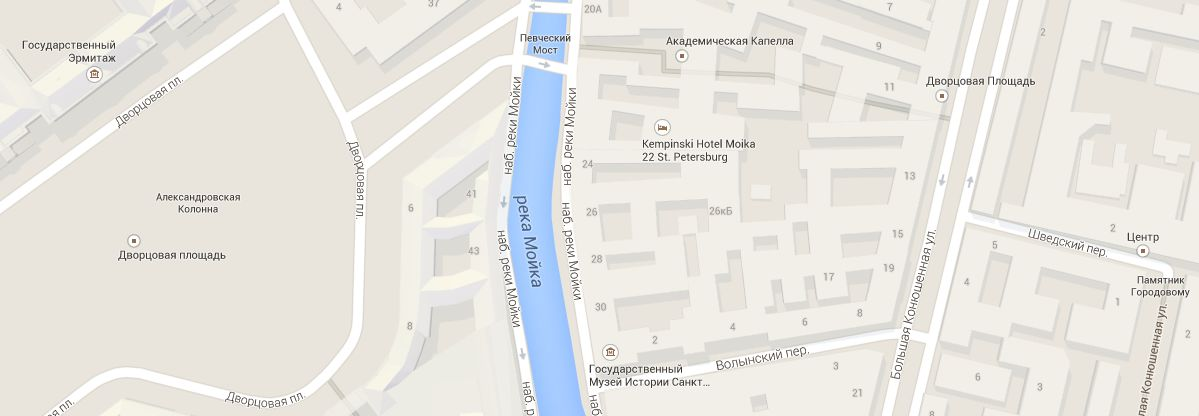
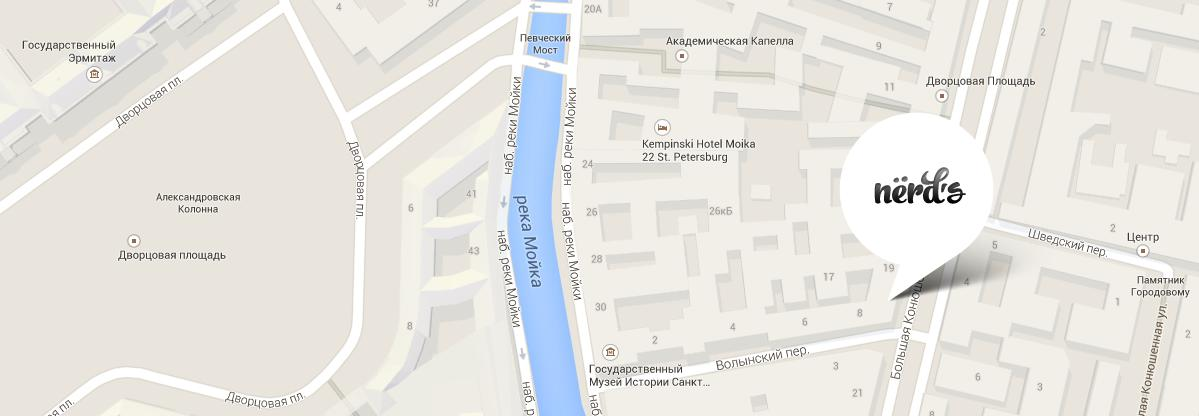
правильный вариант, осталось - слайдер и форму

Changed region(s): [[0.6789, 0.25, 0.8641, 0.7188]]

diff --git a/index-nerds.html b/index-nerds.html
@@ -31,10 +31,6 @@
                 <div class="user-block">
                     <a class="cart" href="#">Корзина</a>
                 </div>
-            </div>
-        </header>
-        <main class="container">
-            <div class="first-block">
                 <div class="learn-more">
                     <h1 class="features-item">Долго, дорого,<br>скрупулезно.</h1>
                     <p >Математически выверенный дизайн<br> для вашего сайта или мобильного приложения.</p>
@@ -44,7 +40,9 @@
                     <img src="img/computers.png" width="338" height="231" alt="Компьютер, планшет, телефон">                  
                 </div>
             </div>
-            <section class="second-block">
+        </header>
+        <main class="container">
+            <section class="first-block">
                 <div class="products-item">
                     <figure class="image">
                         <img src="img/web-sites.png" width="240" height="124" alt="Веб-сайты">
@@ -72,7 +70,7 @@
                 <div class="clearfix"></div>
                 <div class="line"></div>
             </section>
-            <div class="third-block">
+            <div class="second-block">
                 <div class="about-left">
                     <h1>Мы — маленькая, но гордая дизайн-студия из Краснодара.</h1>
                     <p>Исповедуем принципы минимализма и чистоты. Ставим математический расчет выше креатива. Работаем не покладая рук, как роботы.</p>
@@ -110,25 +108,24 @@
                 <div class="clearfix"></div>
                 <div class="line"></div>
             </div>
-            <div class="fourth-block">
+            <div class="third-block">
                 <a href="#"><img src="img/glukhanko.png" width="198" height="37" alt="Glukhanko"></a>
                 <a href="#"><img src="img/academy.png" width="199" height="68" alt="HTML Academy"></a>
                 <a href="#"><img src="img/barbershop.png" width="209" height="90" alt="Barbershop Borodinski"></a>
                 <div class="clearfix"></div>
                 <div class="line"></div>
             </div>
-            <div class="fifth-block">
-                <div class="contacts">
-                    <h3>Nёrds Design Studio</h3>
-                    <p>191186, Санкт-Петербург,<br> ул. Б. Конюшенная, д. 19/8</p>
-                    <p>тел. +7 (812) 275-75-75</p>
-                    <a class="btn4" href="#">Напишите нам</a>
-                </div>
-                <div class="point">
-                    <img src="img/point.png" width="231" height="190" alt="Nerds">
-                </div>
+        </main>    
+        <div class="map">
+            <div class="container">
+            <div class="contacts">
+                <h3>Nёrds Design Studio</h3>
+                <p>191186, Санкт-Петербург,<br> ул. Б. Конюшенная, д. 19/8</p>
+                <p>тел. +7 (812) 275-75-75</p>
+                <a class="btn4" href="#">Напишите нам</a>
             </div>
-        </main>
+            </div>
+        </div>
         <footer class="main-footer">
             <div class="container">
                 <section class="footer-social">

diff --git a/css/index-nerds.css b/css/index-nerds.css
@@ -101,18 +101,14 @@ body {
   left: 0px;
   width: 20px;
   height: 20px;
-  background: transparent url("img/sprite.png") no-repeat;
+  background: transparent url("../img/sprite.png") no-repeat;
   opacity: 0.3;
 }
 
 .cart:hover::before {
-  background: transparent url("img/sprite.png") no-repeat;
+  background: transparent url("../img/sprite.png") no-repeat;
   background-position: -18px 0;
   opacity: 1.0;
-}
-
-.first-block {
-  min-height: 326px;
 }
 
 .learn-more {
@@ -157,12 +153,13 @@ h1 {
   height: 231px;
   float: right;
   margin-top: 20px;
+  margin-bottom: 70px;
 }
 
 .products-item {
   float: left;
   width: 240px;
-  margin: 75px 0 80px 80px;
+  margin: 80px 0 80px 80px;
 }
 
 .products-item:first-child {
@@ -303,12 +300,12 @@ h3 {
   margin-bottom: 23px;
 }
 
-.fourth-block {
+.third-block {
   height: 168px;
   margin-top: 42px;
 }
 
-.fourth-block a {
+.third-block a {
   display: inline-block;
   vertical-align: middle;
   margin-left: 115px;
@@ -316,37 +313,31 @@ h3 {
   opacity: 0.2;
 }
 
-.fourth-block a:first-child {
+.third-block a:first-child {
   margin-left: 14px;
 }
 
-.fourth-block a:hover,
-.fourth-block a:active {
+.third-block a:hover,
+.third-block a:active {
   opacity: 1.0;
 }
 
-.fifth-block {
+.map {
   position: relative;
   background: #ffffff url("../img/map.jpg") no-repeat center;
-  width: 1200px;
+  width: auto;
   height: 416px;
   margin-top: 39px;
 }
 
 .contacts {
   position: absolute;
-  left: 160px;
-  top: 90px;
+  top: 87px;
   width: 210px;
   padding: 26px 20px;
   background-color: #ffffff;
 }
 
-.point {
-  position: absolute;
-  right: 130px;
-  top: 110px;
-}
 
 .btn4 {
   display: inline-block;
